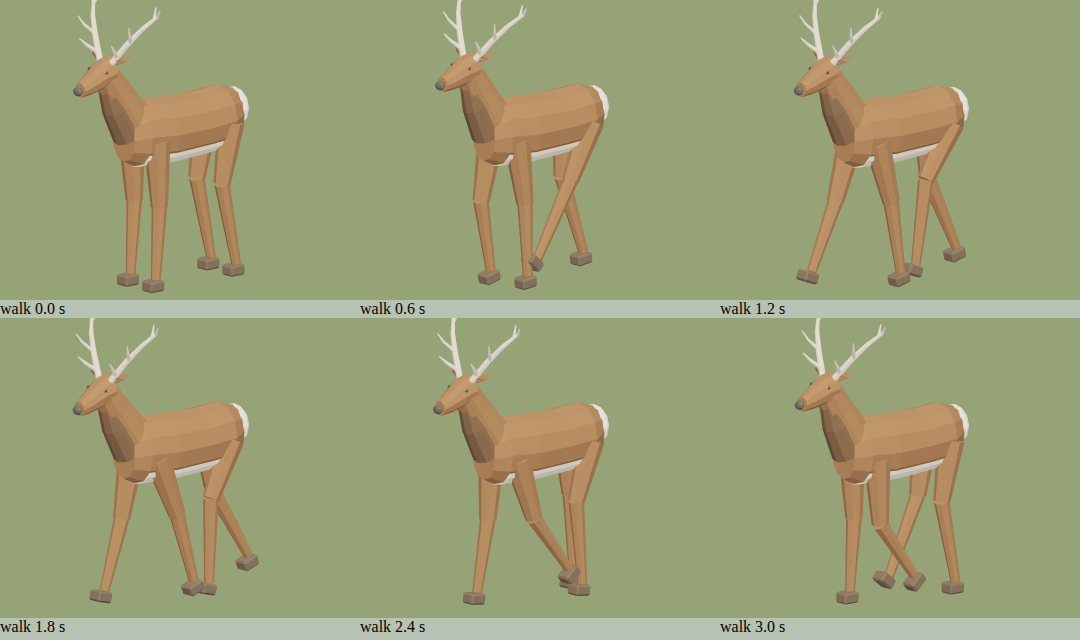
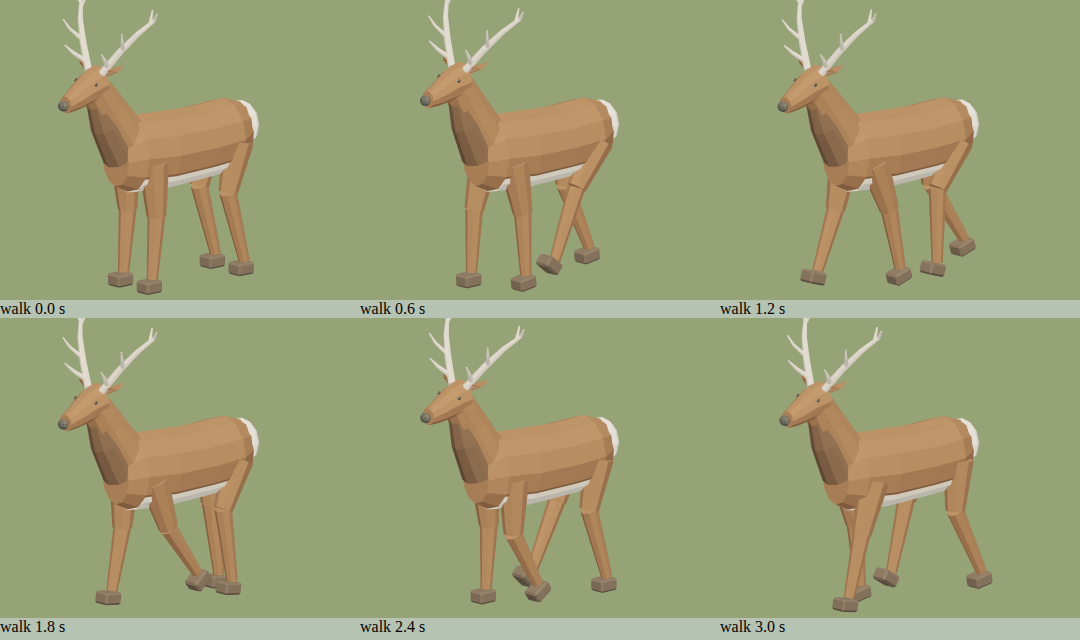
El ciervo: patas más cortas
A Vera le parecían demasiado largas. DEER_DROP baja el cuerpo entero y
acorta las patas lo mismo, con las pezuñas en el suelo (0,11). Sin publicar.

Claude-Session: https://claude.ai/code/session_01XEUqMLS5ySzN2EeA2LcX3M

diff --git a/deliverables/marked-models-trial/build-models.py b/deliverables/marked-models-trial/build-models.py
@@ -516,6 +516,8 @@ def cow():
     ell('Tail_Tuft',(.281,0,.225),(.030,.030,.060),'hoof',tail,8,5)
     merge_parts(); save('cow')
 
+DEER_DROP=.11
+
 def deer():
     # 29 sep 2026. El ciervo de G-23 era de cajas, el último. Facetado sobre la
     # estructura de la mula de Vera: tronco esbelto sobre patas largas, cuello
@@ -548,14 +550,19 @@ def deer():
         tube('Trez_Tine_'+str(s),[(-.258,s*.078,.772),(-.280,s*.100,.800),(-.292,s*.112,.825)],[.006,.004,.002],'antler',head,6)
         tube('Crown_A_'+str(s),[(-.205,s*.140,.850),(-.215,s*.162,.872)],[.005,.002],'antler',head,6)
         tube('Crown_B_'+str(s),[(-.212,s*.132,.842),(-.196,s*.124,.874)],[.005,.002],'antler',head,6)
+    # Patas más cortas (Vera: «demasiado largas»): el cuerpo entero baja
+    # DEER_DROP y las patas se acortan lo mismo, con las pezuñas en el suelo.
+    body.location.z-=DEER_DROP
     for pre,x in [('fore',-.140),('hind',.150)]:
         for sd,l in [(-1,'L'),(1,'R')]:
             y=sd*.055
             if pre=='fore':
-                hip=(x,y,.450); knee=(x+.010,y,.250); ankle=(x-.004,y,.034); toe=(ankle[0]-.010,y,.016)
+                k=(.450-DEER_DROP)/.450
+                hip=(x,y,.450-DEER_DROP); knee=(x+.010,y,.034+(.250-.034)*k); ankle=(x-.004,y,.034); toe=(ankle[0]-.010,y,.016)
             else:
                 # El corvejón atrás, como en el ciervo de verdad.
-                hip=(x,y,.460); knee=(x-.035,y,.280); ankle=(x+.020,y,.034); toe=(ankle[0]-.010,y,.016)
+                k=(.460-DEER_DROP)/.460
+                hip=(x,y,.460-DEER_DROP); knee=(x-.035,y,.034+(.280-.034)*k); ankle=(x+.020,y,.034); toe=(ankle[0]-.010,y,.016)
             limb(pre+l,hip,knee,ankle,toe,.040,'coat',body,'hoof')
     merge_parts(); save('deer')
 

diff --git a/deliverables/marked-models-trial/README.md b/deliverables/marked-models-trial/README.md
@@ -142,7 +142,8 @@ El banco de fauna pinta ahora la lámina de agua para el pato.
 El último de cajas. `deer()` en `build-models.py`, sobre la estructura de la
 mula de Vera: tronco esbelto sobre patas largas con el corvejón atrás, cuello
 alto con crin oscura, pardo rojizo con vientre claro y espejo blanco en la
-grupa, y cuerna con luchadera, candil y corona. Mismo tamaño que el de G-23;
+grupa, y cuerna con luchadera, candil y corona. A Vera las patas le parecieron demasiado
+largas: `DEER_DROP` baja el cuerpo y las acorta lo mismo (0,11; se probó 0,07). Mismo tamaño que el de G-23;
 `rigid-clips.mjs … deer` le da el paso con el casco apoyado en línea recta
 (sustituye al de `art/recipes/deer/plant-gait.cjs`, que era del modelo de cajas).
 
